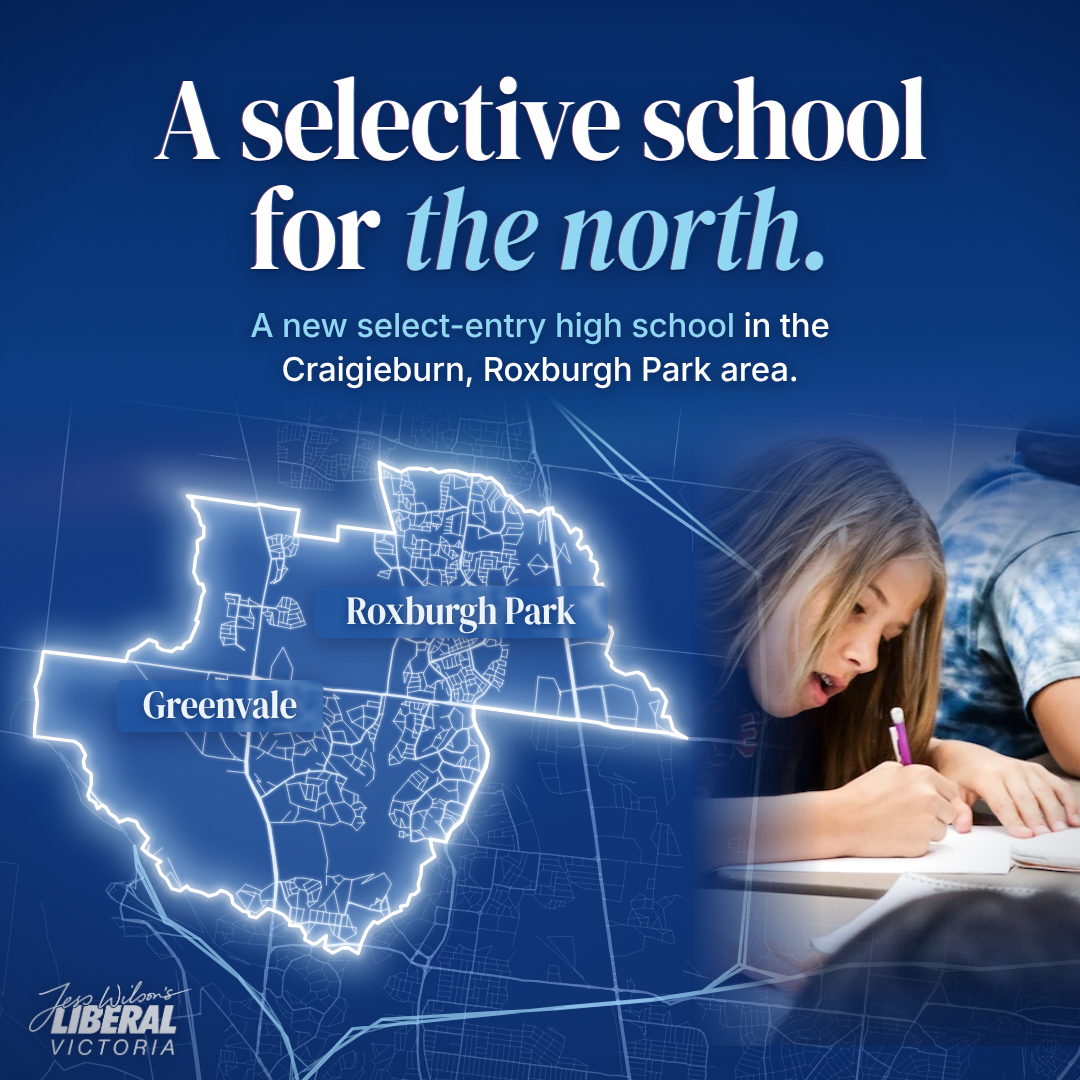
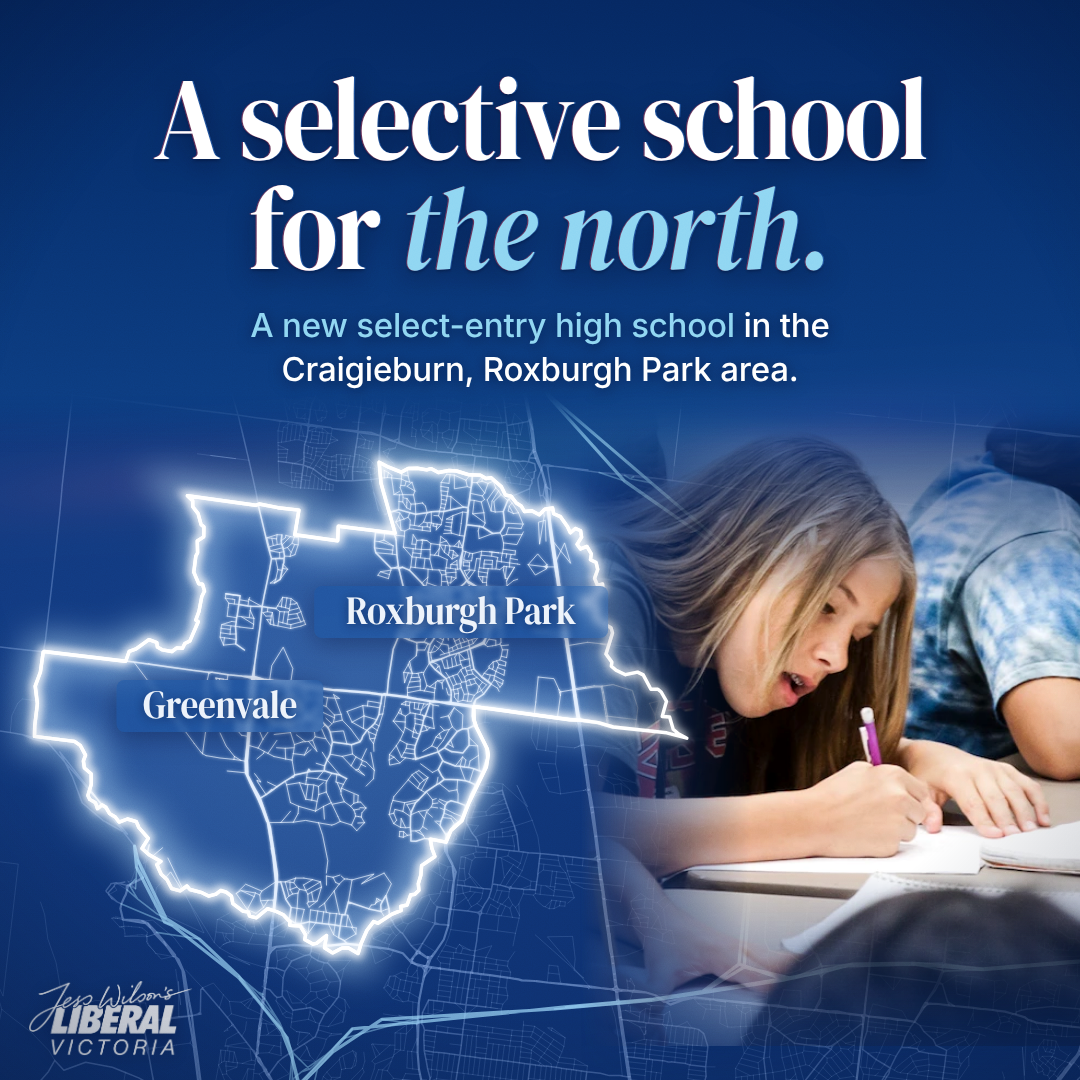
Classroom tile: extend photo left, keep electorate outline on top
Widen the photo box leftwards so more of the student shows, and
overlay the electorate boundary (map-outline.svg, extracted from
map.svg) above the photo so the eastern tip stays visible.

Claude-Session: https://claude.ai/code/session_01MT6wivusBEagFnhed7SAun

diff --git a/designs/select-entry-school-north/source/slide-classroom.html b/designs/select-entry-school-north/source/slide-classroom.html
@@ -51,6 +51,7 @@ h1 em{color:var(--sky);font-style:italic;letter-spacing:-0.01em}
   <img id="map" class="abs" src="map.svg">
   <div id="photobed" class="abs"></div>
   <div id="photo" class="abs"><img src="classroom.webp" alt="Students writing in a classroom"><div class="tint"></div><div class="shade"></div></div>
+  <img id="outline" class="abs" src="map-outline.svg" style="left:0;top:0;width:1080px;height:1080px;pointer-events:none">
   <div id="tags"></div>
   <div id="topfade" class="abs"></div>
   <div id="leak" class="abs"></div>
@@ -74,7 +75,7 @@ const P = Object.assign({
   // photo: box [left, top, width, height]; img [left, top, width] inside the box (classroom.webp is 1024x682);
   // mask: CSS mask layers (intersected) that dissolve the photo into the map
   // box starts right of the electorate (east tip at x~687) so the map stays uncovered
-  photo:{box:[690,330,390,750], img:[-460,-30,1120],
+  photo:{box:[580,330,500,750], img:[-380,-30,1120],
          mask:['linear-gradient(90deg,transparent 0%,rgba(0,0,0,.45) 16%,#000 34%)','linear-gradient(180deg,transparent 10%,rgba(0,0,0,.4) 22%,#000 36%,#000 72%,transparent 100%)'],
          bedMask:['linear-gradient(90deg,transparent 0%,#000 22%)','linear-gradient(180deg,transparent 6%,#000 24%,#000 78%,transparent 100%)']},
   logoW:165,                      // watermark width (px)
@@ -92,6 +93,7 @@ const h=document.getElementById('h'); h.innerHTML=P.head; h.style.top=P.hTop+'px
 const s=document.getElementById('s'); s.innerHTML=P.sub; s.style.top=P.sTop+'px'; s.style.fontSize=P.sSize+'px';
 { document.getElementById('logo').style.width=P.logoW+'px';
   document.getElementById('map').src=P.mapSrc;
+  document.getElementById('outline').src=P.mapSrc.replace('.svg','-outline.svg');
   const ph=document.getElementById('photo'), [bx,by,bw,bh]=P.photo.box, [ix,iy,iw]=P.photo.img, im=ph.querySelector('img');
   Object.assign(ph.style,{left:bx+'px',top:by+'px',width:bw+'px',height:bh+'px'});
   Object.assign(im.style,{left:ix+'px',top:iy+'px',width:iw+'px'});

diff --git a/designs/select-entry-school-north/README.md b/designs/select-entry-school-north/README.md
@@ -65,8 +65,9 @@ faceted up close, which is invisible at tile size.
 ## Classroom version
 
 `source/slide-classroom.html` swaps the portrait for `source/classroom.webp` (campaign-supplied stock
-photo, 1024×682): natural colour (no grade), cropped to the student writing and placed right of the
-electorate so the map stays uncovered. Its edges are masked to dissolve into a soft navy bed
+photo, 1024×682): natural colour (no grade), cropped to the student writing and overlapping only the
+electorate's eastern tip; the boundary line is re-drawn above the photo from `map-outline.svg`
+(the outline paths of `map.svg`) so the electorate shape stays complete. Its edges are masked to dissolve into a soft navy bed
 (`#photobed`), so the fade reads as navy rather than road lines. Its `photo` param sets crop and mask; `mapSrc:"map-stacked.svg"` switches to a
 smaller, lower map for a photo-band-on-top layout (tried, not used). The photo is close to native
 size at 1080, so the @2x render is soft in the photo area — a larger original would fix that.
